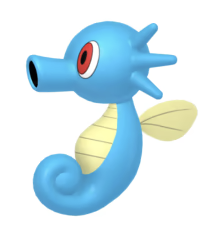
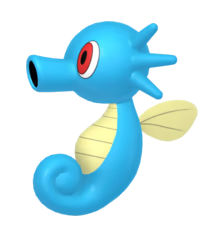
Add transparent Pokemon sprites and asset tooling.
Introduce a Sharp flood-fill script (npm run pokemon:transparent) plus an optional ImageMagick shell script for batch background removal. Regenerate public/pokemon PNGs with edge-connected near-white pixels made transparent. Wrap pick-page species images in a subtle rounded frame for cleaner edges on dark backgrounds.

Made-with: Cursor

Changed region(s): [[0.1154, 0.0897, 0.8654, 0.9274]]

diff --git a/pokepath/src/components/pick/StarterPokemonSelection.tsx b/pokepath/src/components/pick/StarterPokemonSelection.tsx
@@ -287,15 +287,19 @@ function SpeciesVisual({
 
   if (species.imageSrc) {
     const img = (
-      <Image
-        src={species.imageSrc}
-        alt={species.displayName}
-        width={dim}
-        height={dim}
-        className={className}
-        sizes={`${dim}px`}
-        priority={size === 'ball'}
-      />
+      <div
+        className="rounded-lg bg-zinc-900/35 p-0.5 ring-1 ring-zinc-700/30"
+      >
+        <Image
+          src={species.imageSrc}
+          alt={species.displayName}
+          width={dim}
+          height={dim}
+          className={className}
+          sizes={`${dim}px`}
+          priority={size === 'ball'}
+        />
+      </div>
     )
     if (motionProps) {
       return (
